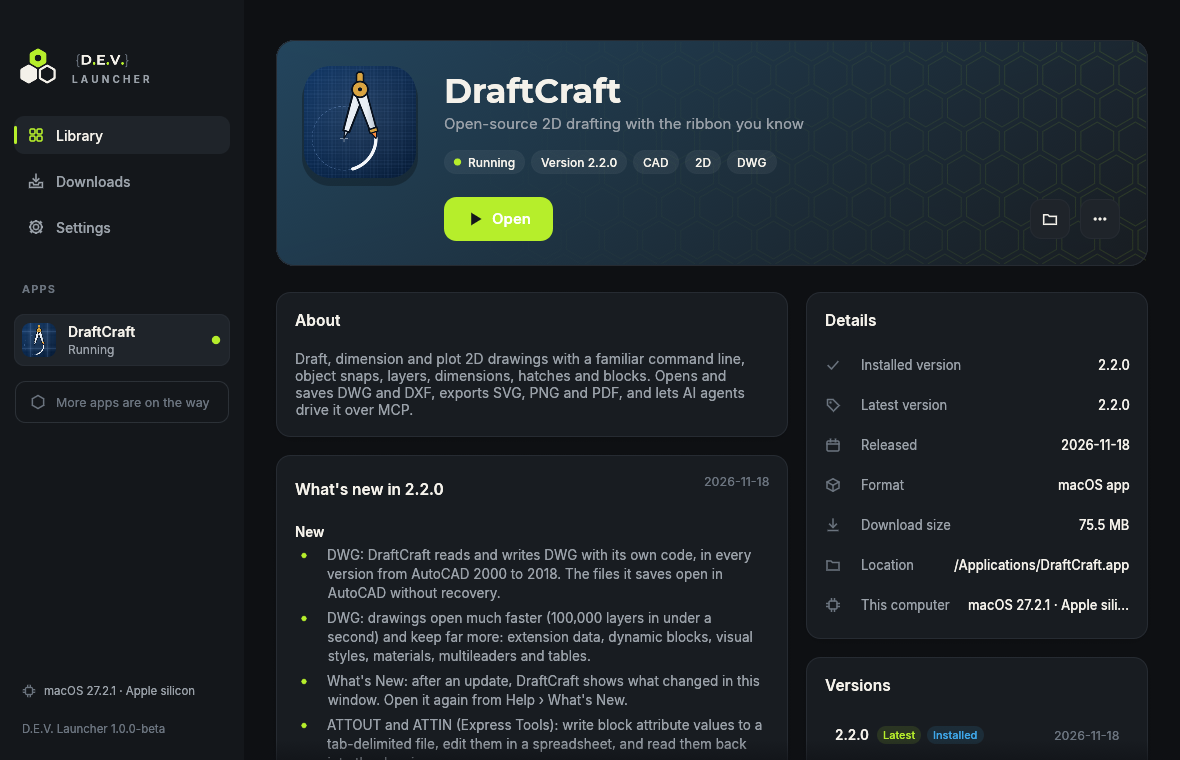
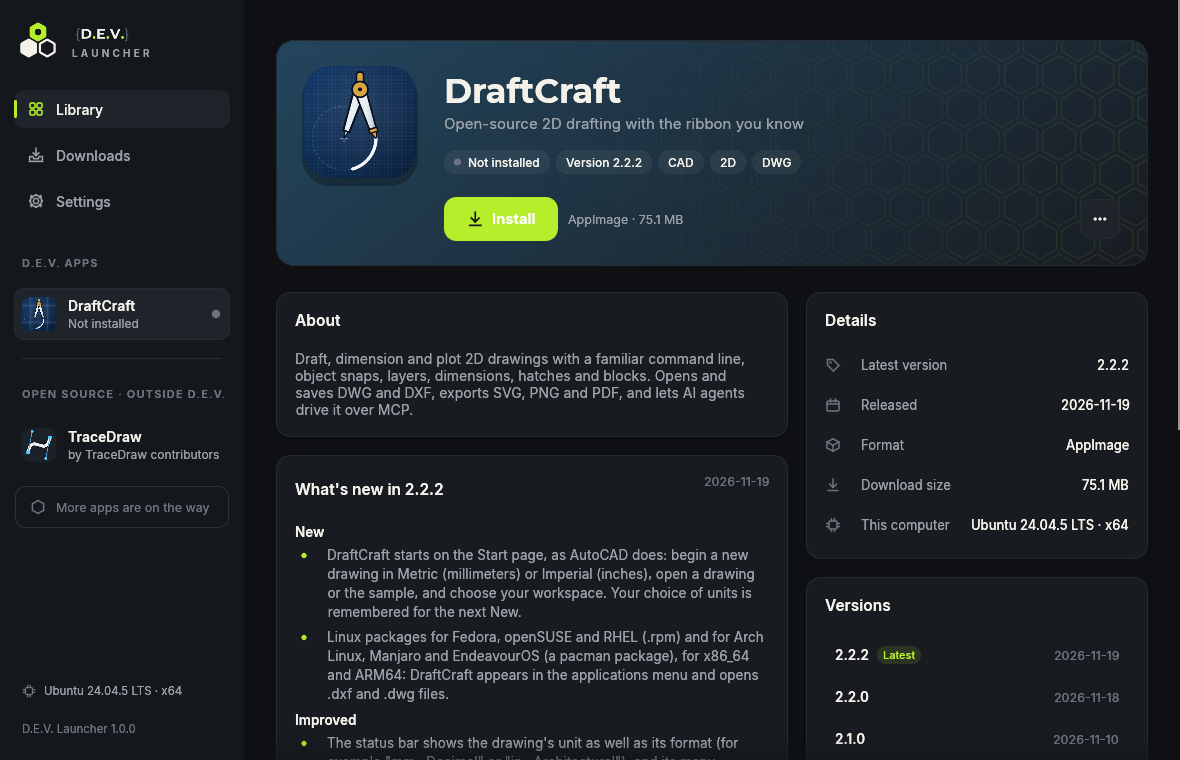
README: library screenshots show the outside open-source apps section
New dark and light library pictures (1180x760, from the launcher's own
--screenshot), with D.E.V. apps, the divider and TraceDraw under Open source ·
outside D.E.V.; DraftCraft's page with its live 2.2.2 release.

Claude-Session: https://claude.ai/code/session_01F67RssNr67uM2HRS3vdet4

diff --git a/README.md b/README.md
@@ -55,8 +55,8 @@
 > apps from this repository, so new ones appear without updating the launcher.
 
 <p align="center">
-  <img src="docs/screenshots/library-dark.png" width="100%" alt="D.E.V. Launcher's library: DraftCraft's page with its icon, an Update to button, the release notes, the details of the installed copy and the list of versions">
-  <br><sub><b>The library</b>: each app with its version, what's new, where it is installed and every earlier release.</sub>
+  <img src="docs/screenshots/library-dark.png" width="100%" alt="D.E.V. Launcher's library: the sidebar lists D.E.V. apps (DraftCraft) and, under a light divider, open-source apps from outside D.E.V. (TraceDraw, by TraceDraw contributors); DraftCraft's page shows its icon, an Install button, what's new, the details and the list of versions">
+  <br><sub><b>The library</b>: D.E.V.'s own apps, and under them open-source apps made by others, credited to their creators; each with its version, what's new and every earlier release.</sub>
 </p>
 
 ## Screenshots
